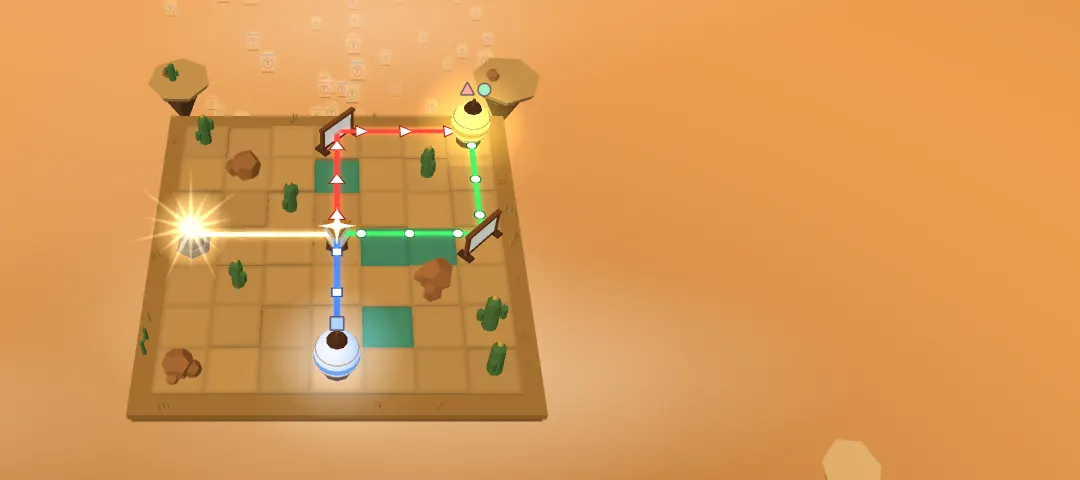
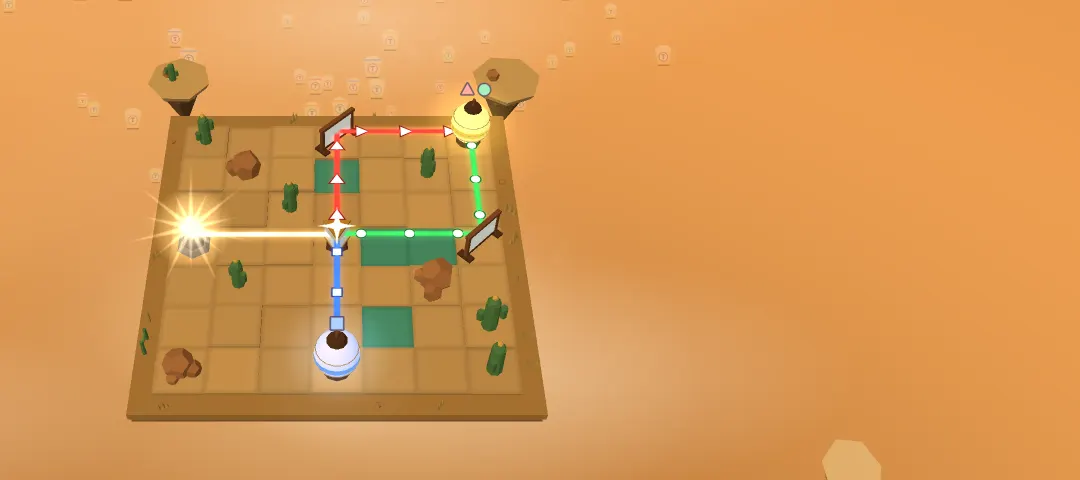
No more coloured speckle in the iPhone sky; busy nights stay calm
Speckle cause: the clouds and mist that cover the daytime sky used a soft-disc texture drawn
with a canvas radial gradient fading to transparent. Safari dithers canvas gradients, and
where alpha is near zero the browser's un-premultiply turns that dither into wild
per-channel colours: coloured RGB speckle wherever a faint cloud or mist edge lay. The disc
is now computed pixel by pixel (white, only alpha changes), and the lantern sheet is
uploaded premultiplied so it cannot do the same.

Follow-up to the Android sky fix: with every lantern now inside the view, a night of 140
crowded the screen. The climb band now grows with the count so about 28 (SKY.comfortable)
are in view at once; with fewer, every one always shows. Test added.

diff --git a/src/client/game/skyfield.ts b/src/client/game/skyfield.ts
@@ -24,6 +24,7 @@ import {
 import type { SkyLantern } from '../../shared/api';
 import {
   arrivalPhase,
+  crowdScale,
   nameHash,
   skyLook,
   skySpot,
@@ -71,6 +72,7 @@ const VERTEX = /* glsl */ `
   uniform float uBelow;
   uniform float uAbove;
   uniform float uSway;
+  uniform float uCrowd;
   varying float vAlpha;
   varying float vCell;
   void main() {
@@ -82,7 +84,7 @@ const VERTEX = /* glsl */ `
     float reach = depth + uCamBack;
     float x = position.x * uHalfH * uFill * reach + sin(uTime * 0.25 + aSeed * 40.0) * uSway;
     float yPlay = uLow + t * span;
-    float yAloft = uAimY - uDropTan * depth + (t * (uBelow + uAbove) - uBelow) * uHalfV * uFill * reach;
+    float yAloft = uAimY - uDropTan * depth + (t * (uBelow + uAbove) - uBelow) * uHalfV * uFill * reach * uCrowd;
     vec3 p = vec3(x, mix(yPlay, yAloft, uAloft), position.z);
     // Fade in at the bottom and out at the top, so wrapping round is never seen.
     float edge = smoothstep(0.0, 0.08, t) * smoothstep(1.0, 0.9, t);
@@ -110,9 +112,9 @@ const FRAGMENT = /* glsl */ `
       (column + gl_PointCoord.x) / uGrid.x,
       1.0 - (row + gl_PointCoord.y) / uGrid.y
     );
+    // The sheet is premultiplied: its colour already carries its own alpha.
     vec4 paint = texture2D(uSheet, uv);
-    float alpha = paint.a * vAlpha;
-    gl_FragColor = vec4(paint.rgb * alpha, alpha);
+    gl_FragColor = vec4(paint.rgb * vAlpha, paint.a * vAlpha);
   }
 `;
 
@@ -178,6 +180,9 @@ export function createSkyField(
   sheet.height = CELL * ROWS;
   const pen = sheet.getContext('2d');
   const sheetMap = keeper.keep(new CanvasTexture(sheet));
+  // Uploaded as it is (premultiplied), never un-premultiplied: that round trip is what turns a
+  // canvas's faint soft edges into coloured speckle on Safari.
+  sheetMap.premultiplyAlpha = true;
   let sheetStale = false;
 
   // A picture the browser will not let us read back (no cross-origin permission) would taint
@@ -289,6 +294,7 @@ export function createSkyField(
     uBelow: { value: SKY.bandBelow },
     uAbove: { value: SKY.bandAbove },
     uSway: { value: SKY.sway },
+    uCrowd: { value: 1 },
     uGrid: { value: new Vector2(COLUMNS, ROWS) },
   };
   const material = keeper.keep(
@@ -320,6 +326,7 @@ export function createSkyField(
     camBack: 10,
     halfV: 0.25,
     halfH: 0.25,
+    count: 0,
   };
   let nowSeconds = 0;
   const names = new Set<string>();
@@ -401,6 +408,7 @@ export function createSkyField(
     },
     update(timeMs, night, calm, pixelRatio, yaw, now) {
       field.rotation.y = yaw;
+      now.count = Math.min(total, max);
       view = now;
       uniforms.uAloft.value = now.aloft;
       uniforms.uAimY.value = now.aimY;
@@ -408,6 +416,7 @@ export function createSkyField(
       uniforms.uCamBack.value = now.camBack;
       uniforms.uHalfV.value = now.halfV;
       uniforms.uHalfH.value = now.halfH;
+      uniforms.uCrowd.value = crowdScale(now.count);
       nowSeconds = timeMs / 1000;
       uniforms.uTime.value = calm ? nowSeconds * 0.35 : nowSeconds;
       uniforms.uNight.value = night;

diff --git a/src/client/game/kit.ts b/src/client/game/kit.ts
@@ -7,8 +7,12 @@ import {
   BufferGeometry,
   CanvasTexture,
   Color,
+  DataTexture,
+  LinearFilter,
+  LinearMipmapLinearFilter,
   Matrix4,
   type Object3D,
+  RGBAFormat,
 } from 'three';
 
 export type Keeper = {
@@ -109,29 +113,37 @@ export function at(x: number, y: number, z: number): Matrix4 {
   return shift.makeTranslation(x, y, z);
 }
 
-/** A soft round blob that fades to nothing at its edge, for glows, mist and light spill. */
-export function softDisc(size = 64, inner = 0.0, hold = 0.3): CanvasTexture {
-  const canvas = document.createElement('canvas');
-  canvas.width = size;
-  canvas.height = size;
-  const pen = canvas.getContext('2d');
-  if (pen !== null) {
-    const half = size / 2;
-    const gradient = pen.createRadialGradient(
-      half,
-      half,
-      half * inner,
-      half,
-      half,
-      half
-    );
-    gradient.addColorStop(0, 'rgba(255,255,255,1)');
-    gradient.addColorStop(hold, 'rgba(255,255,255,0.5)');
-    gradient.addColorStop(1, 'rgba(255,255,255,0)');
-    pen.fillStyle = gradient;
-    pen.fillRect(0, 0, size, size);
+/**
+ * A soft round blob that fades to nothing at its edge, for glows, mist and light spill.
+ *
+ * Computed pixel by pixel, not drawn with a canvas gradient: Safari dithers canvas gradients,
+ * and where alpha is near zero the browser's un-premultiply turns that dither into wild
+ * per-channel colours, which showed as coloured speckle across the whole daytime sky on iPhone.
+ * Here the colour is always white and only alpha changes, smoothly, so nothing can speckle.
+ */
+export function softDisc(size = 64, inner = 0.0, hold = 0.3): DataTexture {
+  const data = new Uint8Array(size * size * 4);
+  const half = size / 2;
+  for (let y = 0; y < size; y++) {
+    for (let x = 0; x < size; x++) {
+      const r = Math.hypot(x + 0.5 - half, y + 0.5 - half) / half;
+      // The same stops the canvas gradient had: 1 at `inner`, 0.5 at `hold`, 0 at the edge.
+      const t = Math.min(1, Math.max(0, (r - inner) / (1 - inner)));
+      const alpha =
+        t <= hold ? 1 - (0.5 * t) / hold : 0.5 * (1 - (t - hold) / (1 - hold));
+      const at = (y * size + x) * 4;
+      data[at] = 255;
+      data[at + 1] = 255;
+      data[at + 2] = 255;
+      data[at + 3] = Math.round(Math.max(0, alpha) * 255);
+    }
   }
-  return new CanvasTexture(canvas);
+  const texture = new DataTexture(data, size, size, RGBAFormat);
+  texture.magFilter = LinearFilter;
+  texture.minFilter = LinearMipmapLinearFilter;
+  texture.generateMipmaps = true;
+  texture.needsUpdate = true;
+  return texture;
 }
 
 /** A four-pointed sparkle, for the place where a prism splits the light. */

diff --git a/src/shared/skyspot.ts b/src/shared/skyspot.ts
@@ -23,7 +23,14 @@ export type SkyView = {
   /** tan of half the vertical and half the horizontal field of view. */
   halfV: number;
   halfH: number;
+  /** How many lanterns are in the sky tonight. */
+  count: number;
 };
+
+/** How much taller than the picture the climb band is, so about SKY.comfortable show at once. */
+export function crowdScale(count: number): number {
+  return Math.max(1, count / SKY.comfortable);
+}
 
 /** A repeatable number in 0..1 from a name. */
 export function nameHash(name: string, salt: number): number {
@@ -85,7 +92,11 @@ export function skySpot(
   const aloft =
     view.aimY -
     view.dropTan * look.depth +
-    (t * band - SKY.bandBelow) * view.halfV * SKY.viewFill * reach;
+    (t * band - SKY.bandBelow) *
+      view.halfV *
+      SKY.viewFill *
+      reach *
+      crowdScale(view.count);
   return {
     x,
     y: play + (aloft - play) * view.aloft,

diff --git a/src/shared/skyspot.test.ts b/src/shared/skyspot.test.ts
@@ -18,6 +18,7 @@ const phone: SkyView = {
   camBack: 10.7,
   halfV: tanHalf,
   halfH: tanHalf * (430 / 701),
+  count: 2,
 };
 
 /** Is a point inside the camera's picture? The camera looks at (0, aimY, 0) from +z. */
@@ -65,6 +66,17 @@ describe('every lantern can be seen', () => {
       SKY.arrivalClimb,
       5
     );
+  });
+});
+
+describe('a busy night', () => {
+  it('shows about SKY.comfortable lanterns at once, never all three hundred', () => {
+    const busy: SkyView = { ...phone, count: 300 };
+    let shown = 0;
+    for (let i = 0; i < 300; i++)
+      if (onScreen(skySpot(skyLook(`player_${i}`), 40, busy), busy)) shown++;
+    expect(shown).toBeGreaterThan(SKY.comfortable * 0.5);
+    expect(shown).toBeLessThan(SKY.comfortable * 2);
   });
 });
 

diff --git a/src/shared/config.ts b/src/shared/config.ts
@@ -904,6 +904,12 @@ export const SKY = {
   bandBelow: 0.45,
   bandAbove: 0.9,
   sway: 0.4,
+  /**
+   * About this many lanterns are in view at once. With more, the band they climb through grows
+   * taller in proportion, so the extra ones are above or below the picture at any moment and a
+   * busy night never smothers the player's own lantern. With fewer, every one is always in view.
+   */
+  comfortable: 28,
   /** A new arrival starts this far (0..1) into its climb, so it rises into view. */
   arrivalClimb: 0.04,
   /** They drift upward this fast, in tiles per second, and wrap around at the top. */

diff --git a/src/client/game/scene.ts b/src/client/game/scene.ts
@@ -213,6 +213,7 @@ export function createIslandView(
     camBack: 10,
     halfV: 0.25,
     halfH: 0.25,
+    count: 0,
   };
   /**
    * Once set, the lantern's climb is no longer driven by time since release but eases from one
